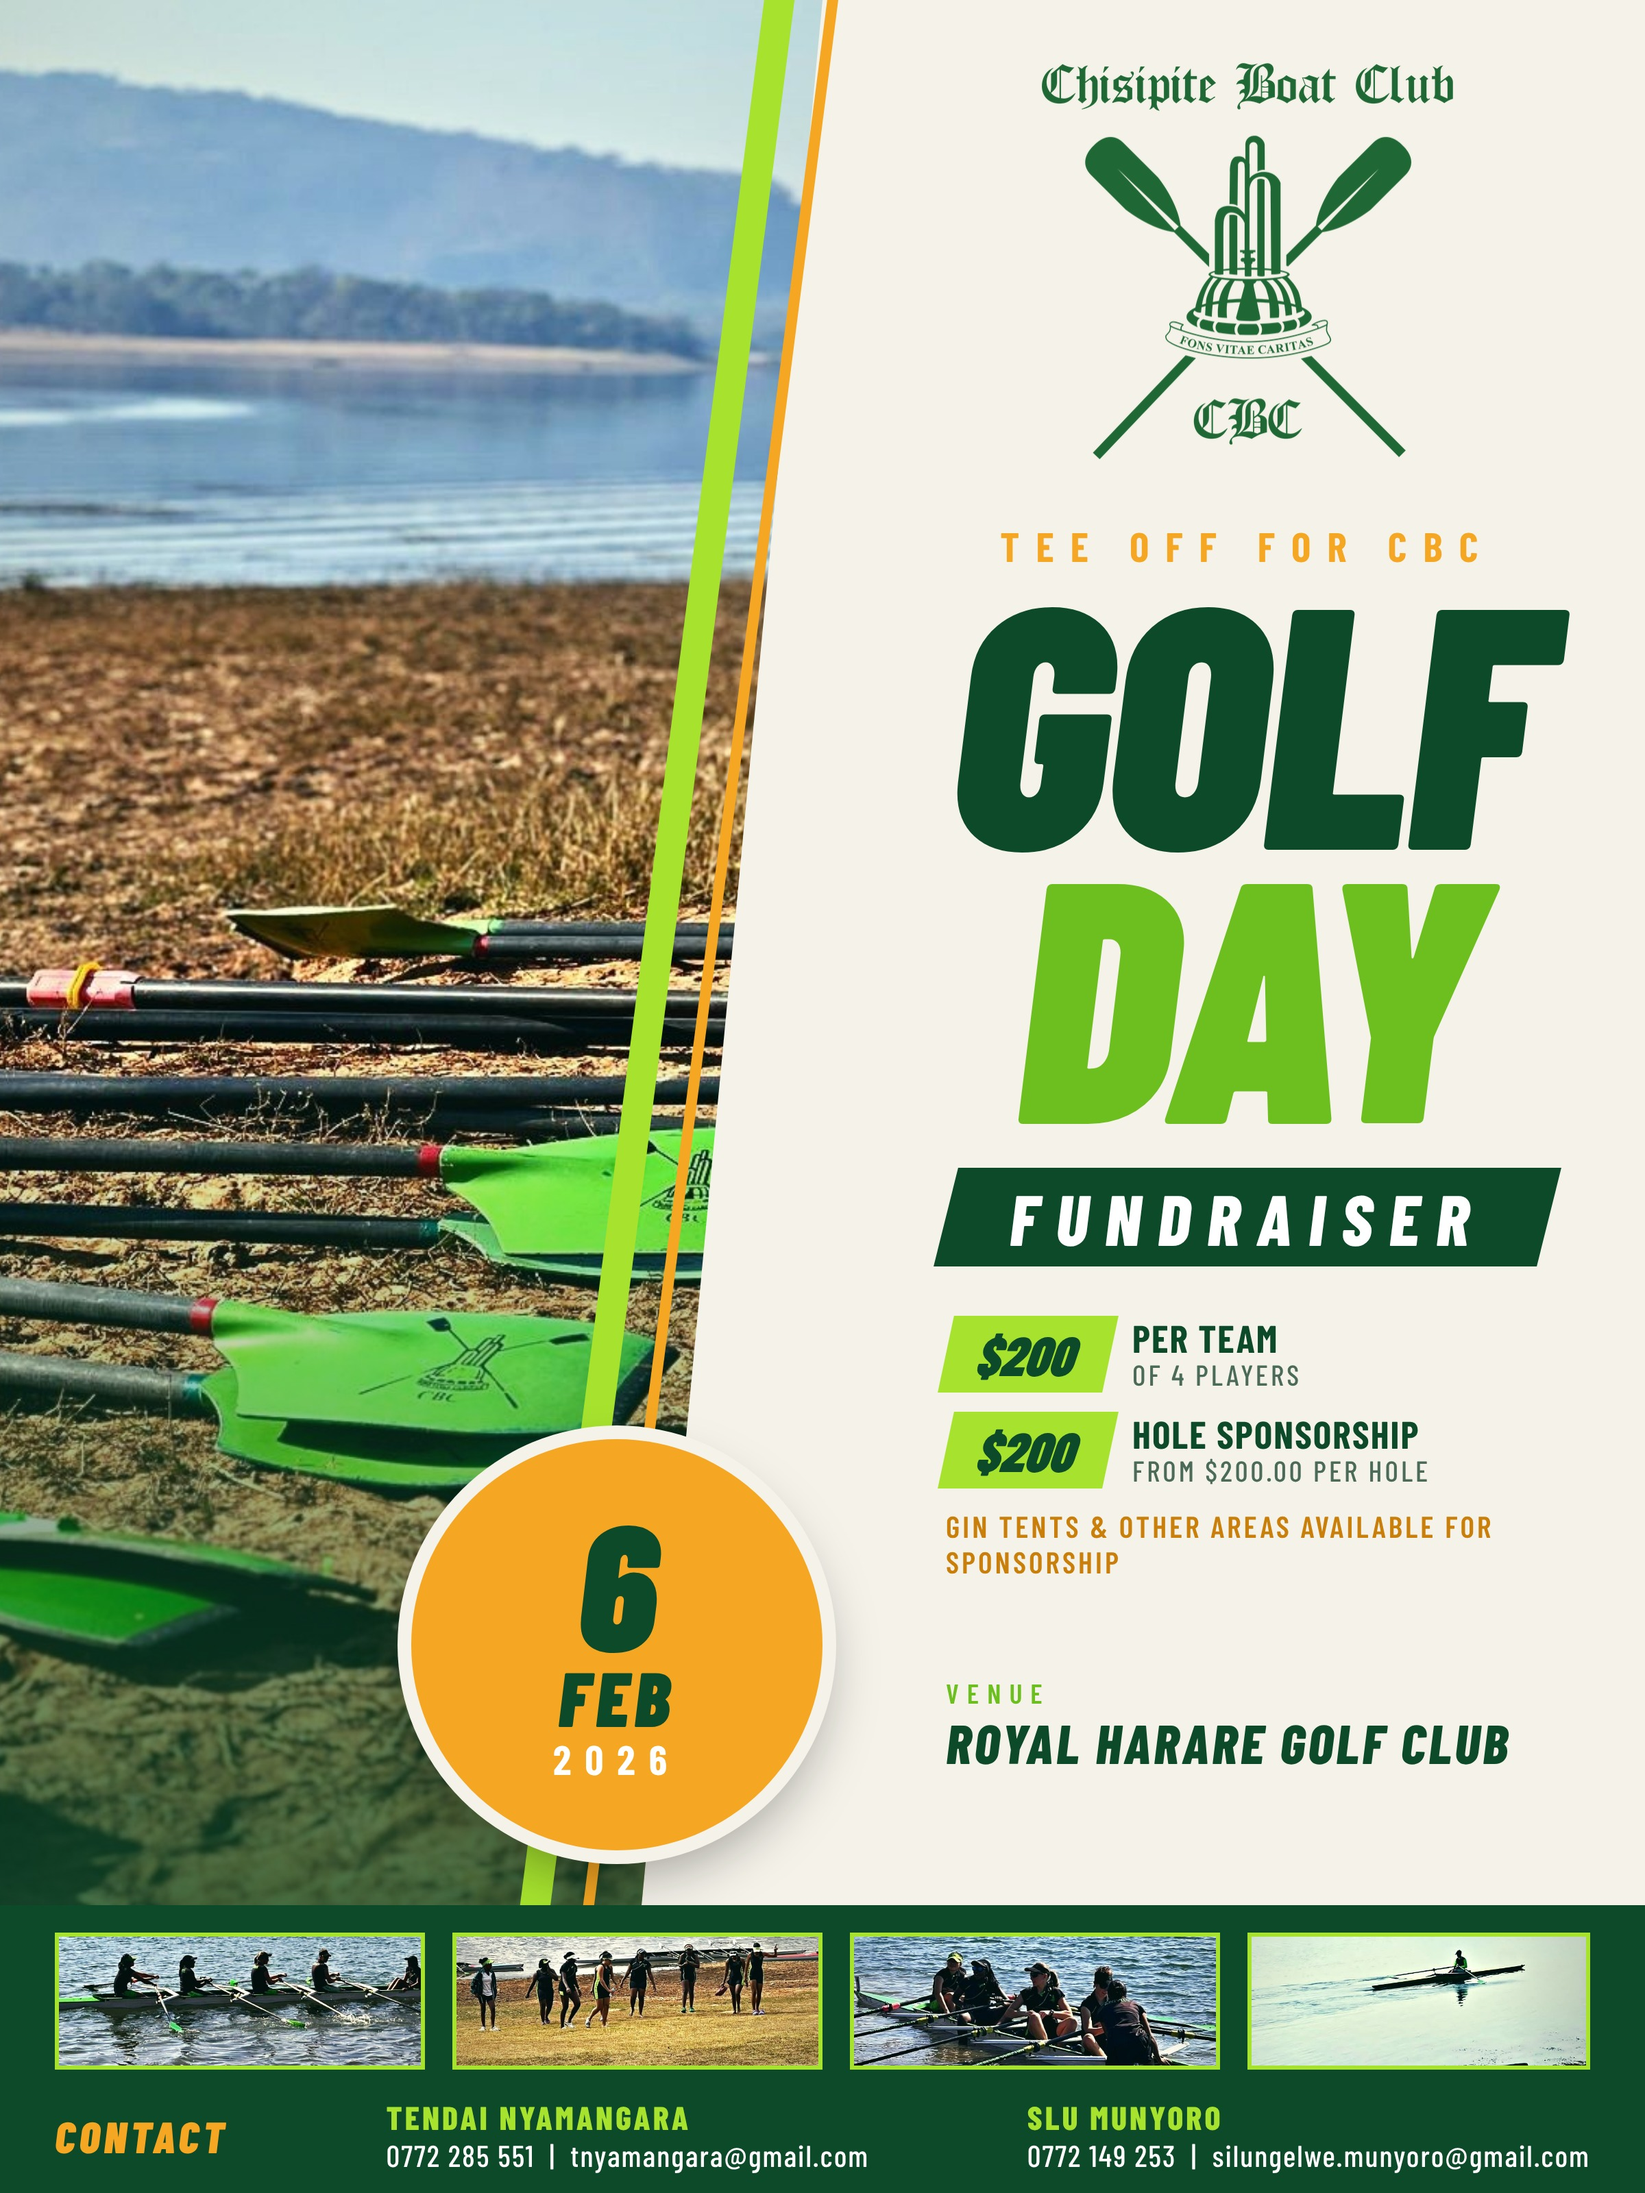
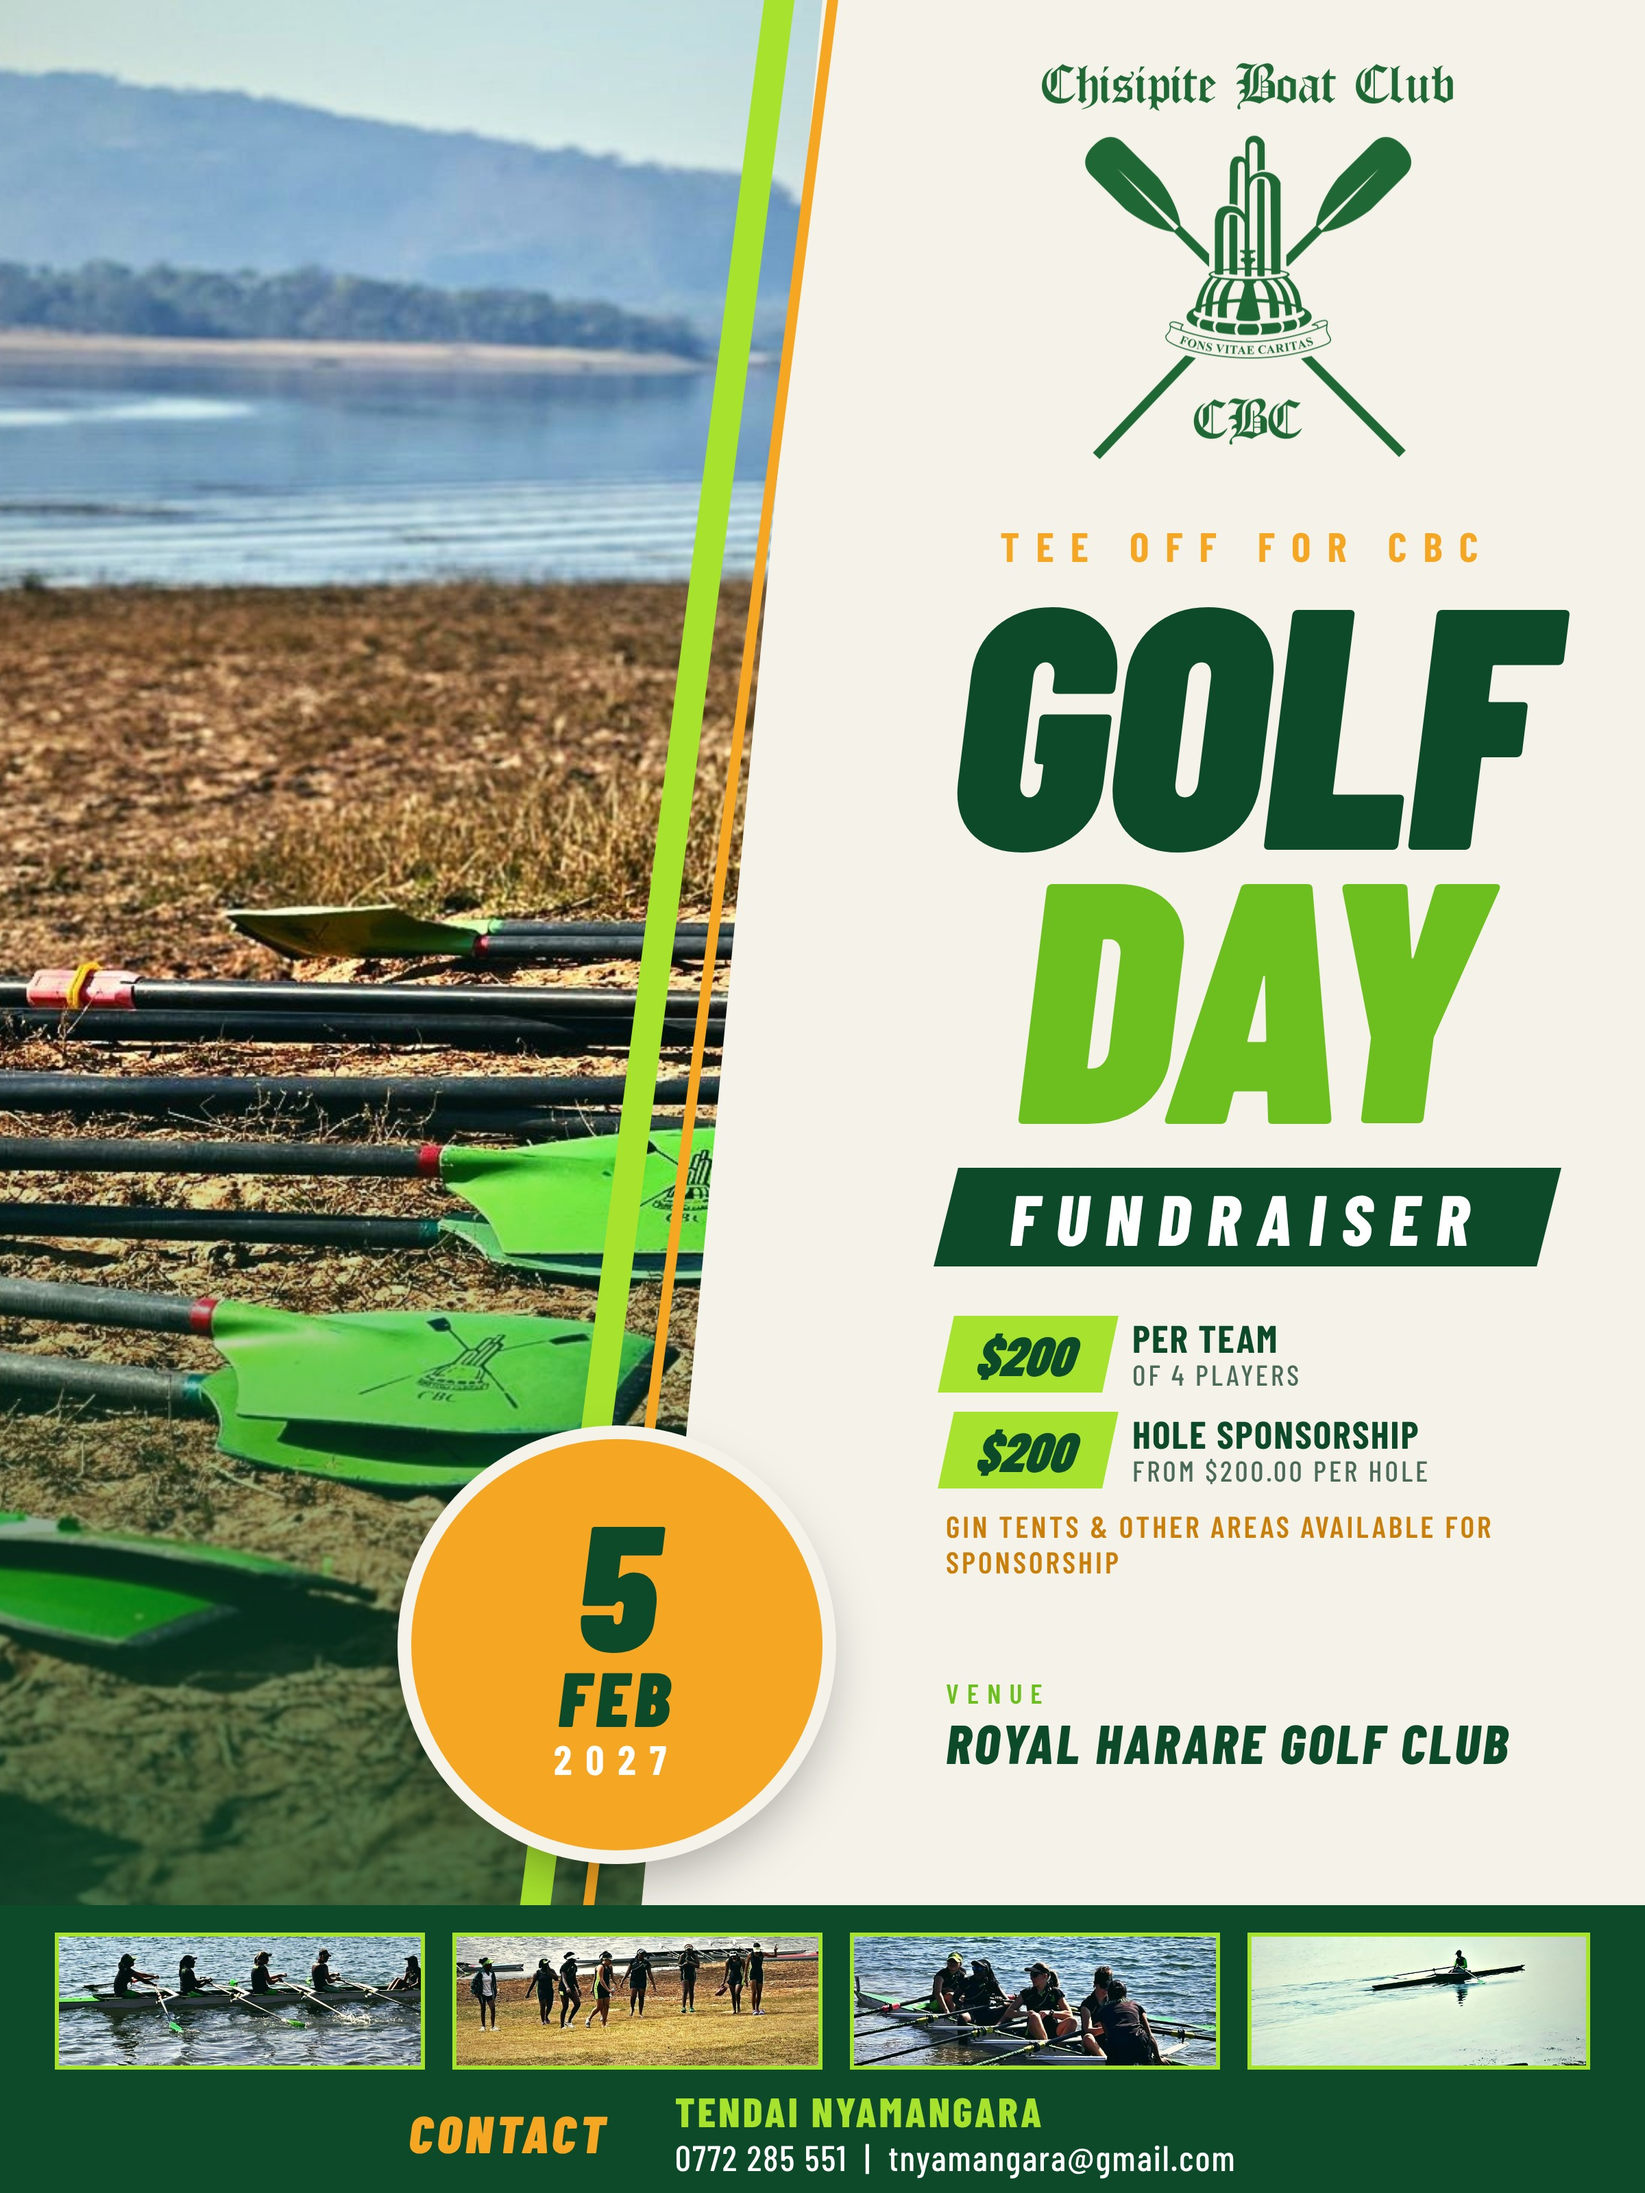
Option B: date 5 Feb 2027, single contact
Claude-Session: https://claude.ai/code/session_01E5pTiti7hhs1WcGuBsVeC3

diff --git a/golf-poster/option_b.template.html b/golf-poster/option_b.template.html
@@ -59,9 +59,9 @@
   .strip { top: 1410px; height: 100px; width: 270px; overflow: hidden; border: 3px solid #a6e22e; }
   .strip img { width: 100%; height: 100%; object-fit: cover; }
   .s1 { left: 40px; } .s2 { left: 330px; } .s3 { left: 620px; } .s4 { left: 910px; width: 250px; }
-  .contacts { left: 40px; top: 1530px; width: 1120px; display: flex; justify-content: space-between; color: #fff; font-size: 22px; font-weight: 500; letter-spacing: 1px; }
-  .contacts b { color: #a6e22e; font-weight: 800; font-size: 24px; letter-spacing: 2px; }
-  .contacts .lbl { font-weight: 900; font-style: italic; font-size: 32px; color: #f5a623; letter-spacing: 3px; line-height: 56px; }
+  .contacts { left: 40px; top: 1522px; width: 1120px; display: flex; justify-content: center; align-items: center; gap: 48px; color: #fff; font-size: 26px; font-weight: 500; letter-spacing: 1px; }
+  .contacts b { color: #a6e22e; font-weight: 800; font-size: 30px; letter-spacing: 2px; }
+  .contacts .lbl { font-weight: 900; font-style: italic; font-size: 38px; color: #f5a623; letter-spacing: 3px; line-height: 56px; }
 </style>
 </head>
 <body>
@@ -84,9 +84,9 @@
   </div>
 
   <div class="abs badge"></div>
-  <div class="abs b-day">6</div>
+  <div class="abs b-day">5</div>
   <div class="abs b-mon">FEB</div>
-  <div class="abs b-yr">2026</div>
+  <div class="abs b-yr">2027</div>
 
   <div class="abs venue"><small>VENUE</small>ROYAL HARARE GOLF CLUB</div>
 
@@ -98,7 +98,6 @@
   <div class="abs contacts">
     <div class="lbl">CONTACT</div>
     <div><b>TENDAI NYAMANGARA</b><br>0772 285 551 &nbsp;|&nbsp; tnyamangara@gmail.com</div>
-    <div><b>SLU MUNYORO</b><br>0772 149 253 &nbsp;|&nbsp; silungelwe.munyoro@gmail.com</div>
   </div>
 </div>
 </body>

diff --git a/golf-poster/option_b_express.html b/golf-poster/option_b_express.html
@@ -59,9 +59,9 @@
   .strip { top: 1410px; height: 100px; width: 270px; overflow: hidden; border: 3px solid #a6e22e; }
   .strip img { width: 100%; height: 100%; object-fit: cover; }
   .s1 { left: 40px; } .s2 { left: 330px; } .s3 { left: 620px; } .s4 { left: 910px; width: 250px; }
-  .contacts { left: 40px; top: 1530px; width: 1120px; display: flex; justify-content: space-between; color: #fff; font-size: 22px; font-weight: 500; letter-spacing: 1px; }
-  .contacts b { color: #a6e22e; font-weight: 800; font-size: 24px; letter-spacing: 2px; }
-  .contacts .lbl { font-weight: 900; font-style: italic; font-size: 32px; color: #f5a623; letter-spacing: 3px; line-height: 56px; }
+  .contacts { left: 40px; top: 1522px; width: 1120px; display: flex; justify-content: center; align-items: center; gap: 48px; color: #fff; font-size: 26px; font-weight: 500; letter-spacing: 1px; }
+  .contacts b { color: #a6e22e; font-weight: 800; font-size: 30px; letter-spacing: 2px; }
+  .contacts .lbl { font-weight: 900; font-style: italic; font-size: 38px; color: #f5a623; letter-spacing: 3px; line-height: 56px; }
 </style>
 </head>
 <body>
@@ -84,9 +84,9 @@
   </div>
 
   <div class="abs badge"></div>
-  <div class="abs b-day">6</div>
+  <div class="abs b-day">5</div>
   <div class="abs b-mon">FEB</div>
-  <div class="abs b-yr">2026</div>
+  <div class="abs b-yr">2027</div>
 
   <div class="abs venue"><small>VENUE</small>ROYAL HARARE GOLF CLUB</div>
 
@@ -98,7 +98,6 @@
   <div class="abs contacts">
     <div class="lbl">CONTACT</div>
     <div><b>TENDAI NYAMANGARA</b><br>0772 285 551 &nbsp;|&nbsp; tnyamangara@gmail.com</div>
-    <div><b>SLU MUNYORO</b><br>0772 149 253 &nbsp;|&nbsp; silungelwe.munyoro@gmail.com</div>
   </div>
 </div>
 </body>

diff --git a/golf-poster/option_b_preview.html b/golf-poster/option_b_preview.html
@@ -59,9 +59,9 @@
   .strip { top: 1410px; height: 100px; width: 270px; overflow: hidden; border: 3px solid #a6e22e; }
   .strip img { width: 100%; height: 100%; object-fit: cover; }
   .s1 { left: 40px; } .s2 { left: 330px; } .s3 { left: 620px; } .s4 { left: 910px; width: 250px; }
-  .contacts { left: 40px; top: 1530px; width: 1120px; display: flex; justify-content: space-between; color: #fff; font-size: 22px; font-weight: 500; letter-spacing: 1px; }
-  .contacts b { color: #a6e22e; font-weight: 800; font-size: 24px; letter-spacing: 2px; }
-  .contacts .lbl { font-weight: 900; font-style: italic; font-size: 32px; color: #f5a623; letter-spacing: 3px; line-height: 56px; }
+  .contacts { left: 40px; top: 1522px; width: 1120px; display: flex; justify-content: center; align-items: center; gap: 48px; color: #fff; font-size: 26px; font-weight: 500; letter-spacing: 1px; }
+  .contacts b { color: #a6e22e; font-weight: 800; font-size: 30px; letter-spacing: 2px; }
+  .contacts .lbl { font-weight: 900; font-style: italic; font-size: 38px; color: #f5a623; letter-spacing: 3px; line-height: 56px; }
 </style>
 </head>
 <body>
@@ -84,9 +84,9 @@
   </div>
 
   <div class="abs badge"></div>
-  <div class="abs b-day">6</div>
+  <div class="abs b-day">5</div>
   <div class="abs b-mon">FEB</div>
-  <div class="abs b-yr">2026</div>
+  <div class="abs b-yr">2027</div>
 
   <div class="abs venue"><small>VENUE</small>ROYAL HARARE GOLF CLUB</div>
 
@@ -98,7 +98,6 @@
   <div class="abs contacts">
     <div class="lbl">CONTACT</div>
     <div><b>TENDAI NYAMANGARA</b><br>0772 285 551 &nbsp;|&nbsp; tnyamangara@gmail.com</div>
-    <div><b>SLU MUNYORO</b><br>0772 149 253 &nbsp;|&nbsp; silungelwe.munyoro@gmail.com</div>
   </div>
 </div>
 </body>
